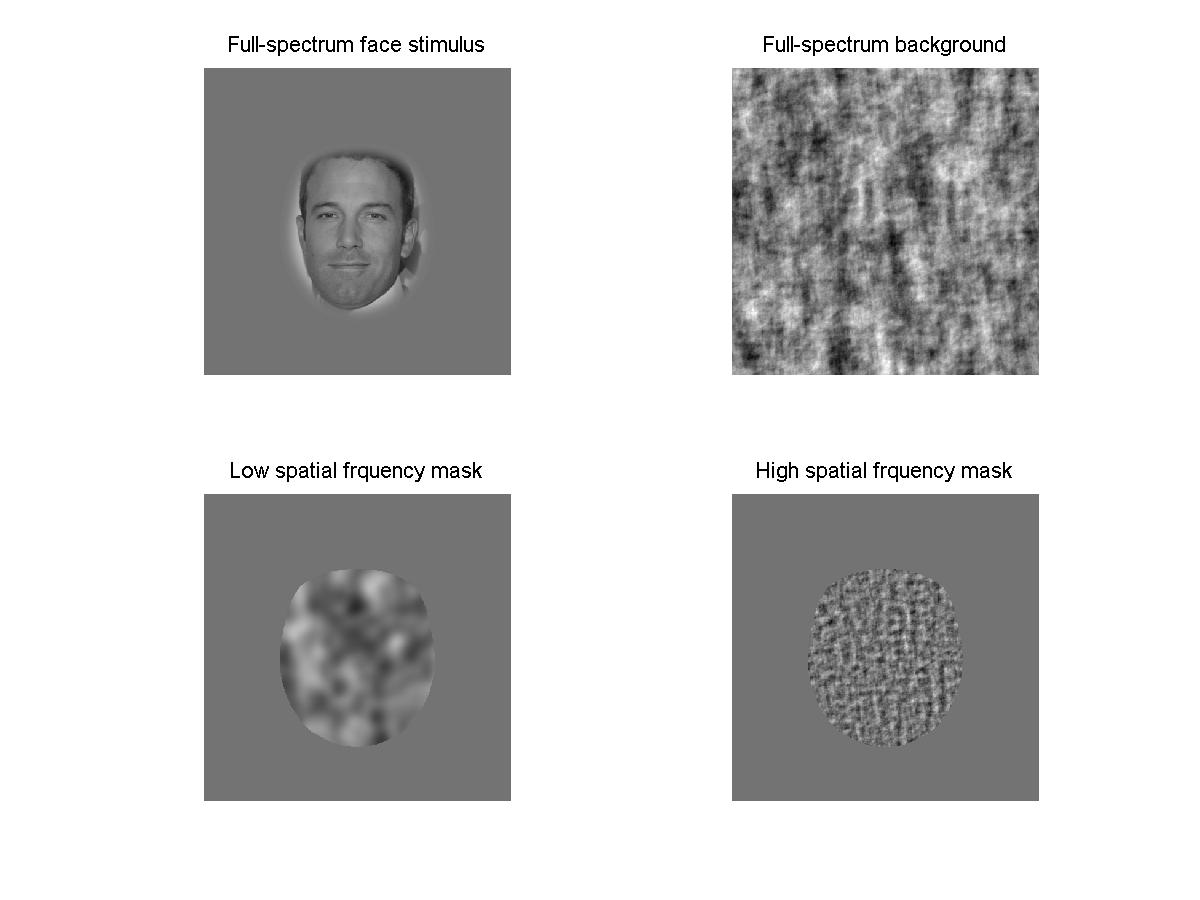
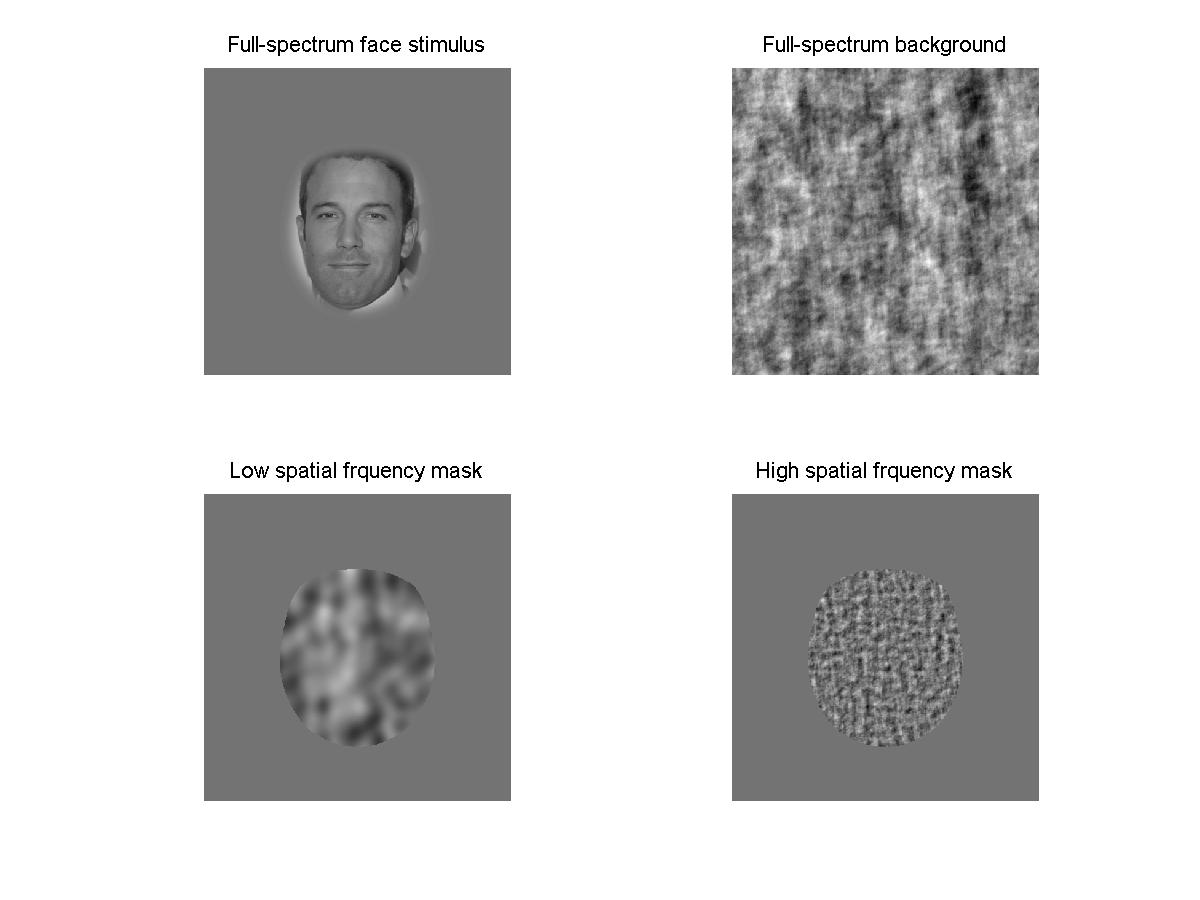
adapted for current datset, only need blurry mask to complete

Changed region(s): [[0.5858, 0.0622, 0.8633, 0.4356], [0.2158, 0.6222, 0.37, 0.84], [0.6783, 0.6222, 0.8017, 0.84]]

diff --git a/stimuli_matlab/CTFV1_STIM.m b/stimuli_matlab/CTFV1_STIM.m
@@ -102,40 +102,40 @@ for theim = 1:length(nim)
 end
 
 %% amplitude spectrum 
-SFres = 20; % resolution of SF sampling (n SF bins) 
+%SFres = 20; % resolution of SF sampling (n SF bins) 
 % the range we will work with going from 1 c/image to m*sqrt(2) c/image, m being size(im,1)
-
-for theim = 1:length(nim)
-
-    im_stim = imset.iter_stim{theim};
-    im_stim = (im_stim/std2(im_stim)) - mean2(im_stim);
-    AmpPlot_VG2(im_stim,SFres,1);% AmpPlot(im,<NoScaleBins>,<NoOrientBins>,<graphics>)
-    load([basefolder 'amplot.mat'])
-    %load('C:\Users\vgoffaux\Documents\MATLAB\amplot');
-    %     imset.SFslope{theim} = p(1);
-    SFspec.SFhist(theim,:) = AmpHist;
-    SFspec.SFslope{theim} = p;
-    SFspec.linSF{theim} = PredAmp;                                       % And the predicted amplitude based on fitted line
+%
+%for theim = 1:length(nim)
+%
+%    im_stim = imset.iter_stim{theim};
+%    im_stim = (im_stim/std2(im_stim)) - mean2(im_stim);
+%    AmpPlot_VG2(im_stim,SFres,1);% AmpPlot(im,<NoScaleBins>,<NoOrientBins>,<graphics>)
+%    load([basefolder 'amplot.mat'])
+%    %load('C:\Users\vgoffaux\Documents\MATLAB\amplot');
+%    %     imset.SFslope{theim} = p(1);
+%    SFspec.SFhist(theim,:) = AmpHist;
+%    SFspec.SFslope{theim} = p;
+%    SFspec.linSF{theim} = PredAmp;                                       % And the predicted amplitude based on fitted line
 %     subplot(round(length(nim)/5),round(length(nim)/round(length(nim)/5)),theim)
 %     loglog(exp(fineScale),PredAmp,'k-')
 %     loglog(Scales,sum(AmpHist,2)','ko',exp(fineScale),PredAmp,'b-')
 %      legend(sprintf('Slope of amplitude spectrum is %3.3f ',p(1)));
-end
-
-allsfslope = vertcat(SFspec.SFslope{:});
-SFspec.SFslope_ga = {mean(allsfslope,1) std(allsfslope,1)};
-SFspec.SFhist_ga = {mean(SFspec.SFhist,1) std(SFspec.SFhist,1)};
-
-
-close all; 
-set(0,'defaultlinelinewidth',3)
-lineIM = cool(length(nim));
-figure('Position', [100, 100, 1000, 1000],'Color',[1 1 1]);
-plot(log(Scales),log(SFspec.SFhist_ga{1}));
-title('Amplitude as a function of SF (log)'); xlabel('log SF (c/image)');ylabel('Amplitude');
-
-loglog(Scales,sum(AmpHist,2)','bd',exp(fineScale),PredAmp,'b-')
-
+%end
+%
+%allsfslope = vertcat(SFspec.SFslope{:});
+%SFspec.SFslope_ga = {mean(allsfslope,1) std(allsfslope,1)};
+%SFspec.SFhist_ga = {mean(SFspec.SFhist,1) std(SFspec.SFhist,1)};
+%
+%
+%close all; 
+%set(0,'defaultlinelinewidth',3)
+%lineIM = cool(length(nim));
+%figure('Position', [100, 100, 1000, 1000],'Color',[1 1 1]);
+%plot(log(Scales),log(SFspec.SFhist_ga{1}));
+%title('Amplitude as a function of SF (log)'); xlabel('log SF (c/image)');ylabel('Amplitude');
+%
+%loglog(Scales,sum(AmpHist,2)','bd',exp(fineScale),PredAmp,'b-')
+%
 %[...] compute AUC and define LSF and HSF cutoff that energy is similar 
 
 
@@ -161,7 +161,7 @@ LSFcutoff = [maxSF/(2^(octwidth*2+gapOct)) (maxSF/(2^(octwidth*2+gapOct)))*2^oct
 HSFcutoff = [maxSF/2^octwidth maxSF]; %4 octaves -- making 2 ranges adjecent
 
 for theim=1:length(nim)
-    daimage=imset.iter_stim{theim};
+    daimage=imset.iter_back{theim};
     fftimage=fftshift(fft2(daimage,desired_size(1), desired_size(2)));
     amplim{theim}=abs(fftimage);
     phasim{theim}=angle(fftimage);
